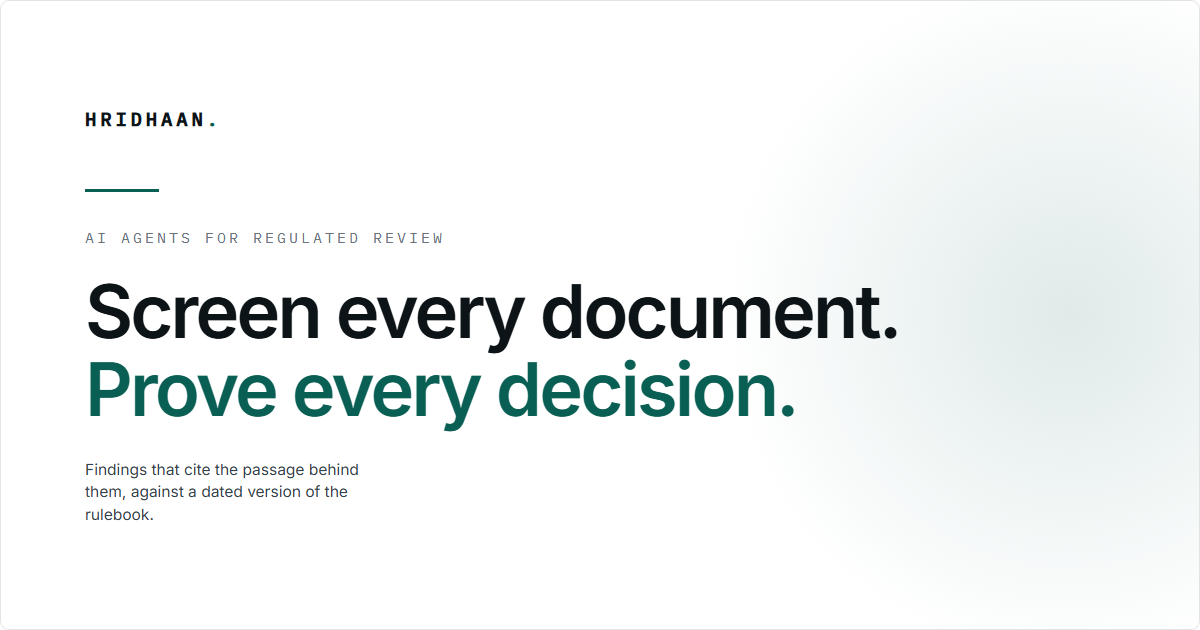
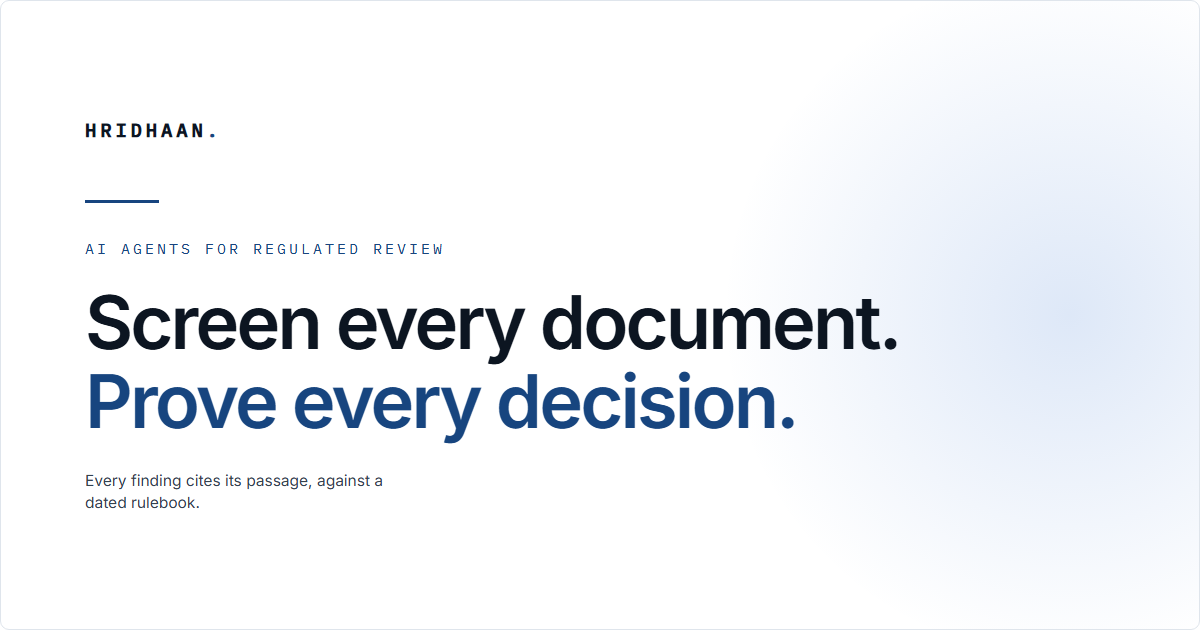
Recolour the site from teal to blue
New palette, applied through the tokens rather than piecemeal:

  --accent      #17457f   deep navy blue, primary
  --accent-dk   #0f3060   CTA ground and hover
  --accent-br   #2f6fd0   brighter blue for icons at small size
  --accent-lt   #e9eff8   tint

Dark surfaces move from #0d1424 to #0b1a2f, and the radial glows on
the statement and manifesto bands from teal to blue. Ink and rule
tokens shifted a few degrees cooler so greys sit under a blue accent
instead of a green one.

Also updated: three inline styles in the HTML that carried teal hex
values, the favicon, and the Open Graph share image, all regenerated
in the new palette. Amber highlights in the worked example and the red
outcome box are unchanged — both are stronger against blue than they
were against teal.

diff --git a/styles.css b/styles.css
@@ -101,21 +101,22 @@
    ========================================================================== */
 
 :root {
-  --ink:        #0d1417;
-  --ink-2:      #33424a;
-  --ink-3:      #63737d;
-  --ink-4:      #8b98a1;
+  --ink:        #0c1521;
+  --ink-2:      #33414f;
+  --ink-3:      #62717f;
+  --ink-4:      #8a97a5;
 
   --paper:      #ffffff;
-  --paper-2:    #f7f8f7;
-  --paper-3:    #eef1f0;
+  --paper-2:    #f7f9fc;
+  --paper-3:    #edf1f7;
 
-  --rule:       #e0e5e4;
-  --rule-2:     #c9d1cf;
+  --rule:       #dfe5ec;
+  --rule-2:     #c6d0dc;
 
-  --accent:     #0a5f55;
-  --accent-dk:  #074740;
-  --accent-lt:  #e6f1ef;
+  --accent:     #17457f;
+  --accent-dk:  #0f3060;
+  --accent-lt:  #e9eff8;
+  --accent-br:  #2f6fd0;
   --amber:      #a15c12;
   --amber-lt:   #fbf2e6;
 
@@ -352,7 +353,7 @@ h2.sec {
 .pipeline .step:nth-child(2)::after { background: #2b7a6f; }
 .pipeline .step:nth-child(3)::after { background: #4c9489; }
 .pipeline .step:nth-child(4)::after { background: #6dada3; }
-.pipeline .step:nth-child(5)::after { background: #8fc5bd; }
+.pipeline .step:nth-child(5)::after { background: #9dc0f0; }
 .pipeline .n {
   font-family: var(--mono); font-size: 11px; letter-spacing: 0.14em;
   color: var(--ink-4); display: block; margin-bottom: 10px;
@@ -403,14 +404,14 @@ a.pack:hover h3 { color: var(--accent); }
 /* ── CTA band ────────────────────────────────────────────────────────── */
 .cta {
   background: var(--accent-dk);
-  color: #cfe2de;
+  color: #d3e0f2;
   border-top: none;
 }
 .cta h2 { color: #fff; font-size: clamp(26px, 3.2vw, 36px); line-height: 1.16; max-width: 28ch; text-wrap: balance; margin-bottom: 18px; }
-.cta p { font-size: 18px; max-width: 66ch; color: #bcd6d1; }
+.cta p { font-size: 18px; max-width: 66ch; color: #c2d3ec; }
 .cta .btn { background: #fff; border-color: #fff; color: var(--ink); margin-top: 18px; }
 .cta .btn:hover { background: var(--accent-lt); border-color: var(--accent-lt); }
-.cta .terms { margin-top: 24px; font-size: 14.5px; color: #9dc0ba; }
+.cta .terms { margin-top: 24px; font-size: 14.5px; color: #9fb6d8; }
 
 /* ── Footer ──────────────────────────────────────────────────────────── */
 footer { padding: 46px 0 54px; border-top: 1px solid var(--rule); background: var(--paper-2); }
@@ -513,13 +514,13 @@ footer { padding: 46px 0 54px; border-top: 1px solid var(--rule); background: va
 .gate { margin-top: 42px; border: 1px solid var(--rule); border-radius: 10px; overflow: hidden; }
 .gate-h { padding: 15px 24px; background: var(--ink); color: #fff; font-size: 15px; font-weight: 600; }
 .gate-h span { font-family: var(--mono); font-size: 11px; letter-spacing: 0.14em;
-  text-transform: uppercase; color: #8fc5bd; display: block; margin-bottom: 3px; font-weight: 500; }
+  text-transform: uppercase; color: #9dc0f0; display: block; margin-bottom: 3px; font-weight: 500; }
 .gate ul { margin: 0; padding: 0; list-style: none; }
 .gate li { display: grid; grid-template-columns: 26px 1fr; gap: 12px; align-items: start;
   padding: 16px 24px; border-bottom: 1px solid var(--rule); font-size: 15.5px; margin: 0; }
 .gate li:last-child { border-bottom: none; }
 .gate li .tick { width: 18px; height: 18px; border-radius: 4px; background: var(--accent-lt);
-  border: 1px solid #b9d6d0; position: relative; margin-top: 2px; }
+  border: 1px solid #bacde8; position: relative; margin-top: 2px; }
 .gate li .tick::after { content: ""; position: absolute; left: 5px; top: 1px; width: 5px; height: 10px;
   border: solid var(--accent); border-width: 0 2px 2px 0; transform: rotate(42deg); }
 .gate li b { display: block; color: var(--ink); margin-bottom: 2px; }
@@ -572,16 +573,16 @@ footer { padding: 46px 0 54px; border-top: 1px solid var(--rule); background: va
 
 /* ── Regulatory ticker ───────────────────────────────────────────────── */
 .ticker {
-  background: #0d1424;
-  border-bottom: 1px solid rgba(255,255,255,.09);
+  background: #0b1a2f;
+  border-bottom: 1px solid rgba(255,255,255,.10);
   overflow: hidden;
   position: relative;
 }
 .ticker .rail { display: flex; width: max-content; animation: tick 78s linear infinite; }
 .ticker .track { display: flex; align-items: center; gap: 46px; padding: 9px 23px 9px 0; white-space: nowrap; }
-.ticker .item { font-size: 12.3px; color: #94a3b0; letter-spacing: .005em; }
-.ticker .item b { color: #e8eef0; font-weight: 600; }
-.ticker .item::after { content: "·"; color: #3d4a5c; margin-left: 46px; }
+.ticker .item { font-size: 12.3px; color: #93a6bd; letter-spacing: .005em; }
+.ticker .item b { color: #e6edf7; font-weight: 600; }
+.ticker .item::after { content: "·"; color: #3a4f6b; margin-left: 46px; }
 @keyframes tick { from { transform: translateX(0); } to { transform: translateX(-50%); } }
 .ticker:hover .rail { animation-play-state: paused; }
 @media (prefers-reduced-motion: reduce) {
@@ -591,8 +592,8 @@ footer { padding: 46px 0 54px; border-top: 1px solid var(--rule); background: va
 
 /* ── Manifesto ───────────────────────────────────────────────────────── */
 .manifesto {
-  background: #0d1424;
-  color: #aebbc6;
+  background: #0b1a2f;
+  color: #adbdd0;
   border-top: none;
   padding: 108px 0 112px;
   position: relative;
@@ -602,12 +603,12 @@ footer { padding: 46px 0 54px; border-top: 1px solid var(--rule); background: va
   content: "";
   position: absolute; right: -180px; top: 50%; transform: translateY(-50%);
   width: 620px; height: 620px; border-radius: 50%;
-  background: radial-gradient(circle, rgba(45,122,111,.30) 0%, rgba(13,20,36,0) 68%);
+  background: radial-gradient(circle, rgba(47,111,208,.34) 0%, rgba(11,26,47,0) 68%);
   pointer-events: none;
 }
 .manifesto .wrap { position: relative; z-index: 1; }
-.manifesto .eyebrow { color: #6fb3a7; }
-.manifesto .eyebrow::before { background: #6fb3a7; }
+.manifesto .eyebrow { color: #7ba6e8; }
+.manifesto .eyebrow::before { background: #7ba6e8; }
 .manifesto h2 {
   color: #fff;
   font-size: clamp(27px, 3.5vw, 40px);
@@ -729,7 +730,7 @@ footer .foot-legal a:hover { color: var(--accent); }
 .strip .items.roadmap span { color: var(--ink-4); font-weight: 400; }
 
 /* ── Icons ───────────────────────────────────────────────────────────── */
-.ic { width: 22px; height: 22px; flex: none; stroke: var(--accent); fill: none;
+.ic { width: 22px; height: 22px; flex: none; stroke: var(--accent-br); fill: none;
       stroke-width: 1.6; stroke-linecap: round; stroke-linejoin: round; }
 .pack .idx { display: flex; flex-direction: column; align-items: flex-start; gap: 9px; }
 .pack .idx .ic { width: 24px; height: 24px; }
@@ -740,20 +741,20 @@ a.pack:hover .ic { stroke: var(--accent-dk); }
 
 /* ── Statement band ──────────────────────────────────────────────────── */
 .statement {
-  background: #0d1424; color: #fff; border-top: none;
+  background: #0b1a2f; color: #fff; border-top: none;
   padding: 96px 0; position: relative; overflow: hidden;
 }
 .statement::after {
   content: ""; position: absolute; left: 50%; top: 50%;
   transform: translate(-50%, -50%);
   width: 1100px; height: 560px; border-radius: 50%;
-  background: radial-gradient(ellipse, rgba(45,122,111,.26) 0%, rgba(13,20,36,0) 70%);
+  background: radial-gradient(ellipse, rgba(47,111,208,.30) 0%, rgba(11,26,47,0) 70%);
   pointer-events: none;
 }
 .statement .wrap { position: relative; z-index: 1; text-align: center; }
 .statement .mark {
   font-family: var(--mono); font-size: 11.5px; letter-spacing: .2em;
-  text-transform: uppercase; color: #6fb3a7; margin-bottom: 26px;
+  text-transform: uppercase; color: #7ba6e8; margin-bottom: 26px;
 }
 .statement p.big {
   font-size: clamp(26px, 3.6vw, 42px); line-height: 1.2; letter-spacing: -.03em;
@@ -761,7 +762,7 @@ a.pack:hover .ic { stroke: var(--accent-dk); }
   text-wrap: balance;
 }
 .statement p.sub {
-  font-size: 17.5px; color: #aebbc6; max-width: 56ch; margin: 0 auto; line-height: 1.6;
+  font-size: 17.5px; color: #adbdd0; max-width: 56ch; margin: 0 auto; line-height: 1.6;
 }
 
 /* ── Product mega-menu ───────────────────────────────────────────────── */
@@ -836,7 +837,7 @@ a.pack:hover .ic { stroke: var(--accent-dk); }
 .arch .stepbox { fill: var(--paper); stroke: var(--rule); stroke-width: 1.3; }
 .arch .st-n { font-family: var(--mono); font-size: 11px; fill: var(--ink-4); letter-spacing: .1em; }
 .arch .st-t { font-size: 17px; font-weight: 600; fill: var(--ink); }
-.arch .chip { fill: var(--accent-lt); stroke: #b9d6d0; stroke-width: 1.2; }
+.arch .chip { fill: var(--accent-lt); stroke: #bacde8; stroke-width: 1.2; }
 .arch .chip-t { font-family: var(--mono); font-size: 12.5px; fill: var(--accent-dk); font-weight: 500; }
 .arch .chip-s { font-family: var(--mono); font-size: 10.5px; fill: var(--accent); }
 .arch .out { fill: var(--paper); stroke: var(--ink); stroke-width: 1.5; }

diff --git a/about.html b/about.html
@@ -235,14 +235,14 @@
 <!-- ── CTA ───────────────────────────────────────────────────────────── -->
 <section class="cta">
   <div class="wrap">
-    <div class="eyebrow" style="color:#7fb8ae;">Start here</div>
+    <div class="eyebrow" style="color:#8fb4ec;">Start here</div>
     <h2>Tell us which documents are costing you the most time</h2>
     <p>
       If a review in your organisation takes an expert hours per document and has to be defensible
       afterwards, that is the conversation worth having.
     </p>
     <a class="btn lg" href="mailto:hello@hridhaan.ai?subject=Hridhaan%20—%20assessment%20engagement">Book a call</a>
-    <p class="terms">Or write to <a href="mailto:hello@hridhaan.ai" style="color:#cfd8da;text-decoration:underline;">hello@hridhaan.ai</a>.</p>
+    <p class="terms">Or write to <a href="mailto:hello@hridhaan.ai" style="color:#d3e0f2;text-decoration:underline;">hello@hridhaan.ai</a>.</p>
   </div>
 </section>
 

diff --git a/index.html b/index.html
@@ -334,11 +334,11 @@
 <!-- ── CTA ───────────────────────────────────────────────────────────── -->
 <section class="cta">
   <div class="wrap">
-    <div class="eyebrow" style="color:#7fb8ae;">Start here</div>
+    <div class="eyebrow" style="color:#8fb4ec;">Start here</div>
     <h2>Four weeks, on your own documents</h2>
     <p>Inside your environment. Measured baseline numbers, a working prototype, success criteria agreed in writing first.</p>
     <a class="btn lg" href="mailto:hello@hridhaan.ai?subject=Hridhaan%20assessment%20engagement">Book a call</a>
-    <p class="terms">Or write to <a href="mailto:hello@hridhaan.ai" style="color:#cfd8da;text-decoration:underline;">hello@hridhaan.ai</a>.</p>
+    <p class="terms">Or write to <a href="mailto:hello@hridhaan.ai" style="color:#d3e0f2;text-decoration:underline;">hello@hridhaan.ai</a>.</p>
   </div>
 </section>
 

diff --git a/use-cases.html b/use-cases.html
@@ -275,7 +275,7 @@
 <!-- ── CTA ───────────────────────────────────────────────────────────── -->
 <section class="cta">
   <div class="wrap">
-    <div class="eyebrow" style="color:#7fb8ae;">Start here</div>
+    <div class="eyebrow" style="color:#8fb4ec;">Start here</div>
     <h2>A fixed-scope assessment engagement, on your own documents</h2>
     <p>
       Four weeks on your documents, inside your environment. Measured baseline numbers and a working
